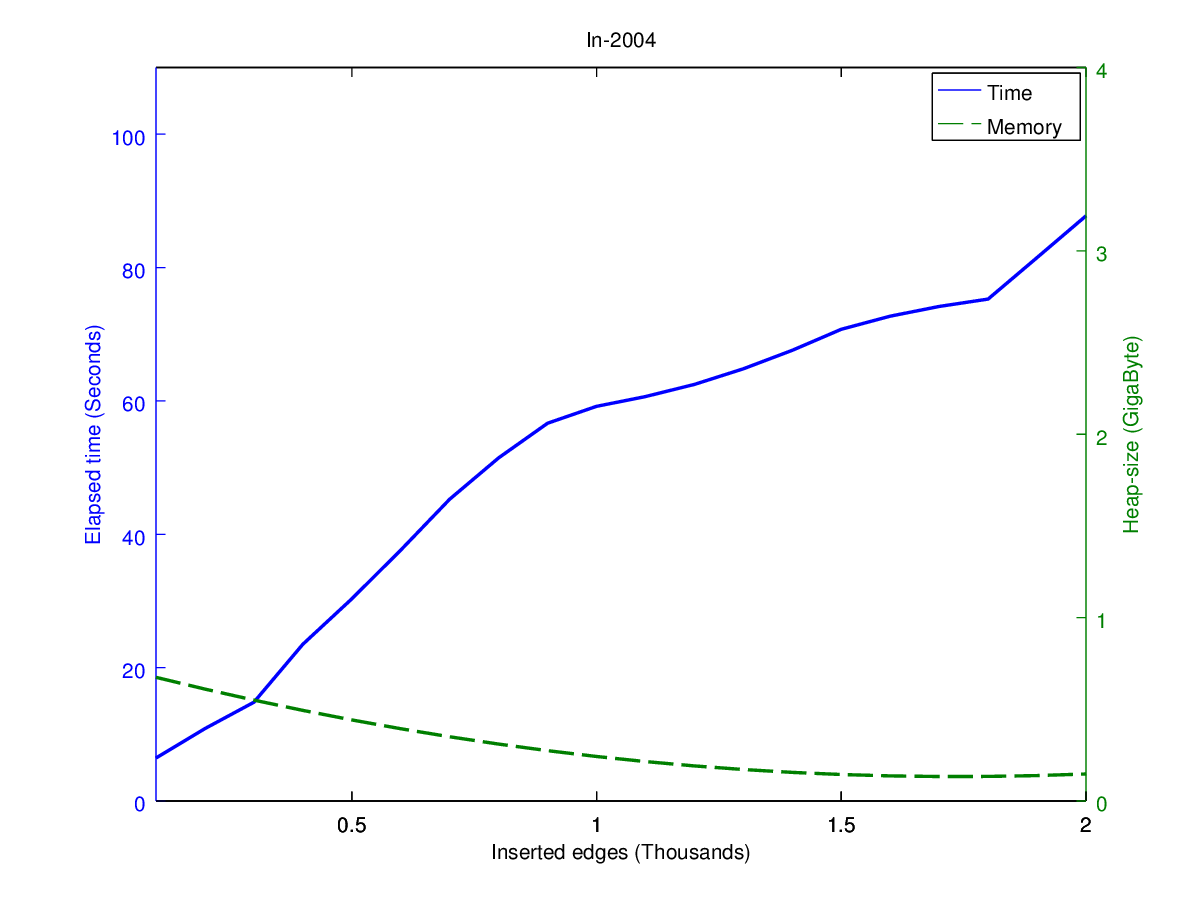
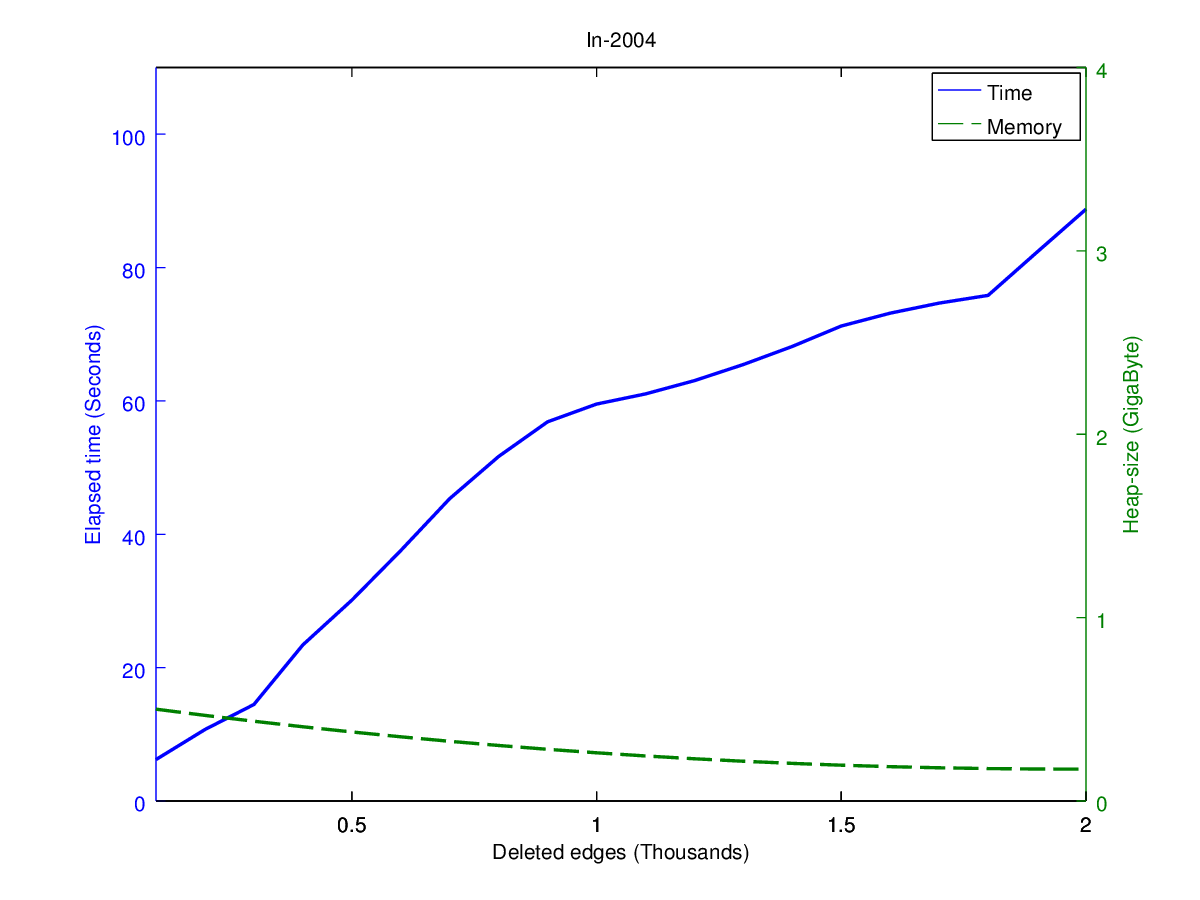
First send-in

diff --git a/include/Development.tex b/include/Development.tex
@@ -27,7 +27,7 @@ The performance difference between unioning graphs and directly merging a graph 
 \end{figure}
 
 \subsection{Merging two graph files}
-A method to merge the raw format of two BVGraphs without the references has been developed. The merging speed improves \todo{Show and analyze Benchmark here} tenfold by ignoring the references and the space used by the graphs are approximately doubled. This merge method is more appropriate than the existing one as for the algorithm to be dynamic\todo{komma här?} modifications to the graph have to be done as quickly as possible. This method has two phases for each node. The first phase reads the intervals of both graphs and merge them. As the intervals in the graph files are sorted in ascending order by the start of the interval, this can be done in $O(n)$ time (see Appendix B). In the next step, the algorithm takes the smallest residual node from one of the graphs and writes it to the output graph. As the residuals are already sorted in ascending order in the graphs, only the current head residuals in the graphs need to be considered. If they are the same, it is written once and both file pointers are moved forward so that no duplicates are written. If the residual to be written is already included in one of the intervals, it is ignored. Using this developed method allows for merging very large graphs at a short amount of time.
+A method to merge the raw format of two BVGraphs without the references has been developed. The merging speed improves \todo{Show and analyze Benchmark here} tenfold by ignoring the references and the space used by the graphs are approximately doubled. This merge method is more appropriate than the existing one as for the algorithm to be dynamic, modifications to the graph have to be done as quickly as possible. This method has two phases for each node. The first phase reads the intervals of both graphs and merge them. As the intervals in the graph files are sorted in ascending order by the start of the interval, this can be done in $O(n)$ time (see Appendix B). In the next step, the algorithm takes the smallest residual node from one of the graphs and writes it to the output graph. As the residuals are already sorted in ascending order in the graphs, only the current head residuals in the graphs need to be considered. If they are the same, it is written once and both file pointers are moved forward so that no duplicates are written. If the residual to be written is already included in one of the intervals, it is ignored. Using this developed method allows for merging very large graphs at a short amount of time.
 
 \subsection{How we solved it}
 Not yet completed
@@ -35,7 +35,7 @@ Not yet completed
 \section{HyperLogLog resize}
 After new nodes have been added to the graph, new counters have to be created for them. The initial counters retreived by HyperBall are represented as an array of longs. We intend to keep this representation, as it has a very low amount of wasted memory usage. It also minimized the number of objects created on the heap. But as new counters are needed, the array must be resized. For this, a geometric expansion is used as it gives $O(1)$ amortized time per insertion \cite{dynamicarrays}. In the geometric expansion the array capacity is increased by a factor. This is how the standard implementation of ArrayList in Java is dynamically increased. A larger factor implies an on average small number of copies per inserted elements but a high amount of unused space. The amortized number of copies per inserted element for a factor $r$ is roughly $\frac{1}{(r-1)}$ and the average unused space is $\log(r)*\frac{r}{(r-1)} - 1$. \cite{dynamicarrays}
 
-Under the assumption that the graph expands slowly relative to its size \todo{Where is this assumption? write in problem description what assumptions we have, eg expands, delete/insert ration}, resizing events will be sparse and a large factor would mainly imply a large amount of unused memory. Therefore, it is more beneficial to let the array increase by a small factor. With the factor $r = 1.1$, an average of $4.8$\% space is unused and every element will on average be copied $10$ times.
+Under the assumption that the graph expands slowly relative to its size, resizing events will be sparse and a large factor would mainly imply a large amount of unused memory. Therefore, it is more beneficial to let the array increase by a small factor. With the factor $r = 1.1$, an average of $4.8$\% space is unused and every element will on average be copied $10$ times.
 
 \section{Updating counters}
 
@@ -70,10 +70,8 @@ Node history speeds up the algorithm but also uses extra space that, for large g
 \subsection{Vertex cover}
 One way to determine which nodes that should keep their history is to use the nodes that are in a minimum vertex cover $VC$. Only saving the node history on nodes that are part of the $VC$ can significantly improve space usage, yet the BFS can still be bounded. The trick here is that for all nodes $u$, it holds that $u \in VC \vee \forall e = (u,v) : v \in VC$. Then, when the collecting-BFS searches from a node $v$ it will take at most two steps until it reach a frontier of only nodes in the vertex cover. From this frontier, the collecting-BFS can calculate $v$'s history and counter by merging the frontiers collection histories. The collection-BFS is now bounded by two steps, resulting in $O(\Delta_v + \sum_{u \in \delta^+_v}{\Delta_u}) $ operations. The top counter uses the same space but the history counters now use $O((h-1)|VC| \log \log n)$, so the total space complexity for the counter collection is $O(((h-1)|VC| + 1 )\log \log n)$.
 
-
 \subsubsection{Dynamic minimum vertex cover}
 There is a requirement to, at all times, keep track of which nodes are in the vertex cover. This requires a fully dynamic minimum vertex cover algorithm. However, as minimum vertex cover is NP-complete, approximation algorithms must be used. The choice of fully dynamic approximate minimum vertex cover algorithm depends on the ratio between the number of insertions and deletions. A simple greedy algorithm can maintain a $2$-approximation in $O(1)$ time per insertion and $O(n)$ time per deletion \cite{2appdynvc}, while an algorithm that partition the nodes can maintain the same approximation in $O(\log(n))$ amortized time per insertion and deletion \cite{2appdynvclogn}. In our case, deletions will be very sparse in the data stream, which is why the greedy algorithm was chosen. The greedy algorithm also have the property that if a deleted edge was not part of the maximal matching previously, it deletes the edge in $O(1)$ operations. For dense graphs, only a small amount of the edges will be in the maximal matching, which makes it in many cases perform very quickly in deletions as well. 
-
  
 \subsubsection{Directed graphs}
 As the standard minimum vertex cover problem is defined for undirected graphs the problem have to be slightly modified. The new problem description is as follows; given a directed graph $G = (V,E)$, we wish to select a minimum cardinality subset $V' \subseteq V$ such that $\forall e = (u,v) \in E, u \in V' \vee v \in V'$. The problem is still NP-complete as undirected graphs are a special case of directed graphs. 
@@ -87,7 +85,7 @@ The selected greedy algorithm was benchmarked with the publicly available it-200
 
 \begin{figure}[h]
 \centering
-\includegraphics[width=14cm]{firstIterationDvc}    
+\includegraphics[width=12cm]{firstIterationDvc}    
 \captionsetup{justification=centering}
 \caption {Benchmark of sequential insertions in 2-approximative dynamic vertex cover}
 \label{fig:firstIterationDvc}
@@ -100,73 +98,19 @@ To test the performance of sequentially deleting edges the publicly available in
 
 \begin{figure}[h]
 \centering
-\includegraphics[width=14cm]{firstIterationDvcDeletions}    
+\includegraphics[width=12cm]{firstIterationDvcDeletions}    
 \captionsetup{justification=centering}
 \caption {Benchmark of sequential deletions in 2-approximative dynamic vertex cover}
 \label{fig:firstIterationDvcDeletion}
 \end{figure}
 
+\subsection{Edge insertion}
 
-\section{Algorithm}
-
-\todo{This section mention lots of already mentioned things, perhaps merge these parts into above sections}
-
-As the algorithm should be able to be initiated on an existing graph we use HyperANF to calculate the initial counter collection. HyperANF is already implemented in an iteration based manner. For each iteration run, the neighborhood function for all nodes reach one step further. The counters for the nodes in the vertex cover are extracted for each iteration, except the last iteration where we keep all nodes' counters. 
-
-\subsection{Edge Insertions}
-
-Edge insertion is divided into four steps. The first step is checking if the edge contains nodes not present in the current graph. New nodes are added to the graph and the top counter is, if necessary, resized to fit new counters of the new nodes. The second step is to check if any new node needs to be added into the vertex cover. For all new nodes in the vertex cover, memory is allocated in the history counters. The third step is calculating the history of the nodes added to the vertex cover. Lastly, the new history is propagated with a BFS in the transpose graph to update the counters of nodes that reach new nodes. After these four steps all nodes will have their top counters updated and all nodes in the vertex cover will have their history counters in order. 
-
-\subsubsection{Calculating node history}
-
-Calculating the node history of an added node $v$ is done based on the history from the vertex cover nodes around $v$. We know that there will be a vertex cover node on all paths at most 2 steps away. We perform a BFS from $v$. If it encounters a node $u$ not in the vertex cover, $u$ is simply added to the counter of $v$. This can only happen at one step away from $v$, so $u$ is added to all counters in $v$'s history except the top one. If a node $u$ that is in the vertex cover is encountered we can take the history-counters of $u$. Let the distance from $u$ to $v$ be $x$. We take the counters on level $0$ to $h-x$ from $u$ and union them with the top history counters of $v$. \todo{This sentence can probably be better structured}  The algorithm is presented in pseudo-code in figure \ref{fig:edge_insertion_algorithm}.
-
-\begin{figure}[h]
-    \begin{lstlisting}[mathescape]
-Let v = The node to calculate the history for;
-Let H(v,i) = the neighborhood function for v reaching i steps;
-In BFS; current node: u, at depth: d > 0{
-    if(isInVertexCover(u)){
-        for all i: d $\leq$ i $\leq$ h {
-            H(v,i).union(H(u,i-d));
-        }
-        //prune this BFS branch
-    }else{
-        H(v,h-1).add(u);
-    }
-}
-    \end{lstlisting}
-    \caption{Edge insertion algorithm}
-    \label{fig:edge_insertion_algorithm}
-\end{figure}
-
-The algorithm only works for one node at a time. However, by leveraging the mentioned MS-BFS algorithm \cite{msbfs}, we can perform the calculation for several nodes at the same time. When using MS-BFS we get a list of the source nodes that reach the node with the given depth. The new algorithm is seen in figure \ref{fig:multiple_edge_insertion_algorithm}.
-
-\begin{figure}[h]
-    \begin{lstlisting}[mathescape]
-Let H(v,i) = the neighborhood function for v reaching i steps;
-In BFS; sources: V, current node: u, at depth: d > 0{
-    foreach v $\in$ V{
-        if(isInVertexCover(u)){
-            for all i: d $\leq$ i $\leq$ h {
-                H(v,i).union(H(u,i-d));
-            }
-            //prune this BFS branch
-        }else{
-            H(v,h-1).add(u);
-        }
-    }
-}
-    \end{lstlisting}
-    \caption{Multiple edge insertion algorithm}
-    \label{fig:multiple_edge_insertion_algorithm}
-\end{figure}
-
-Unfortunately this algorithm is not thread-safe. For example if two threads are running the union method for the same node at the same time it is very likely that one of the calculations are lost. Large portions of the BFS will still be done in parallel. There are several ways to synchronize the calculation which may allow large parts of the visitor to be done in parallel. Experiments with different synchronizations will be made in the Benchmarking section. Another bad property is that the BFS can arrive at one of the new nodes which may not have finished its history calculation. However, the fourth step in the algorithm, the propagation step, will solve this issue. 
+Edge insertion now is divided into four steps. The first step is checking if the edge contains any new nodes. New nodes are added to the graph and the top counter is, if necessary, resized to fit new counters of the new nodes. The second step is to check if any new node needs to be added into the vertex cover. For all new nodes in the vertex cover, memory is allocated in the history counters. The third step is calculating the history of the nodes added to the vertex cover. Lastly, the new history is propagated with a BFS in the transpose of the graph to update the counters of nodes affected by the insertion. After these four steps all nodes will have an approximate neighborhood function in their top counters and all nodes in the vertex cover will have their history counters updated. 
 
 \subsubsection{History propagation}
 
-When a new edge $e = (u,v)$ is added to the graph, many nodes that has a path to $u$ will contain outdated information. The algorithm works by propagating the history of $v$ through the transpose of the graph. If $v$ is not in the Vertex Cover we need to calculate its history from the neighbor nodes. We present the algorithm as pseudo code in figure \ref{fig:history_propagation_algorithm}.
+When a new edge $e = (u,v)$ is added to the graph, many nodes that has a path to $u$ will contain outdated information. The algorithm works by propagating the history of $v$ through the transpose of the graph. If $v$ is not in the Vertex Cover, the history needs to be calculated from the neighbor nodes. The algorithm is presented in pseudo code, see figure \ref{fig:history_propagation_algorithm}.
 
 \begin{figure}[h]
     \begin{lstlisting}[mathescape]
@@ -191,7 +135,7 @@ In BFS; source: u, current node: z, at depth: d{
     \label{fig:history_propagation_algorithm}
 \end{figure}
 
-We want to modify this algorithm to work with several edges at once. In this case we can use the traveler support of the MS-BFS algorithm. This means that we don't have to loop through all source nodes but can use the data provided by the traveler. The travelers will contain the counter registers of their respective source node. When they merge we can simply take the union of their registers and only keep the $h+1-depth$ top-most counters as the others won't reach further anyway. In the visitor the data from the traveler is joined with the existing counters of the visited nodes. The merge function for the traveler is constructed as in figure \ref{fig:history_propagation_traveler}.
+To speed up the algorithm, it needs to be modifier to handle several edges at once. In this case the traveler support of the MS-BFS algorithm can be used. This means that the data provided by the traveler can be used instead of looping through all the source nodes. The travelers will contain the counter registers of their respective source node. When the travelers merge they can take the union of their registers. They also only need to keep the $h+1-depth$ top-most counters as the others won't reach further anyway. In the visitor the data from the traveler is joined with the existing counters of the visited nodes. The merge function for the traveler is constructed as in figure \ref{fig:history_propagation_traveler}.
 
 \begin{figure}[h]
     \begin{lstlisting}[mathescape]
@@ -208,8 +152,7 @@ return tOut
     \label{fig:history_propagation_traveler}
 \end{figure}
 
-With this traveler we don't have to do much modification to the visitor. As the only difference is that we use the counter history from the traveler data instead of taking it from only the source node.\\
-
+The visitors only have to be slightly modified to make us of this traveler. The only difference is that the visitor use the counter history from the traveler data instead of taking it from the source nodes.\\\\
 \textit{Theorem: } After an update all nodes have had all reachable nodes added to their counters \\\\
 \textit{Proof: } This will be shown by an inductive proof. 
 

diff --git a/include/Introduction.tex b/include/Introduction.tex
@@ -17,7 +17,7 @@ At each time step $i > 1$ we have  $G_i = (G_{i-1} \backslash D_{i-1}) \cup A_{i
 
 The algorithm will be used by Meltwater to define an influence metric on journalists. A graph will initially be built from the data collected by Meltwater. The data comes from sources such as news papers and social networks. Whenever more information is collected the graph should be updated to continuously contain relevant information. The number of new documents each day is in the scale of tens of millions and the existing documents are in the scale of billions. To be able to handle these magnitudes, the time and space complexity of our proposed algorithm are very limited.
 
-The data stream from Meltwater have some specific properties that can be accounted for in the algorithm. It is rarely the case that they remove items and connections from the data, hence insertions will be much more common than deletions. 
+The data stream from Meltwater have some specific properties that can be accounted for in the algorithm. It is rarely the case that they remove items and connections from the data, hence insertions will be much more common than deletions. The original graph is very large, and the data-stream is relatively small compared to its size. 
 
 \section{Limitations}
 \subsection{Entity disambiguating}
